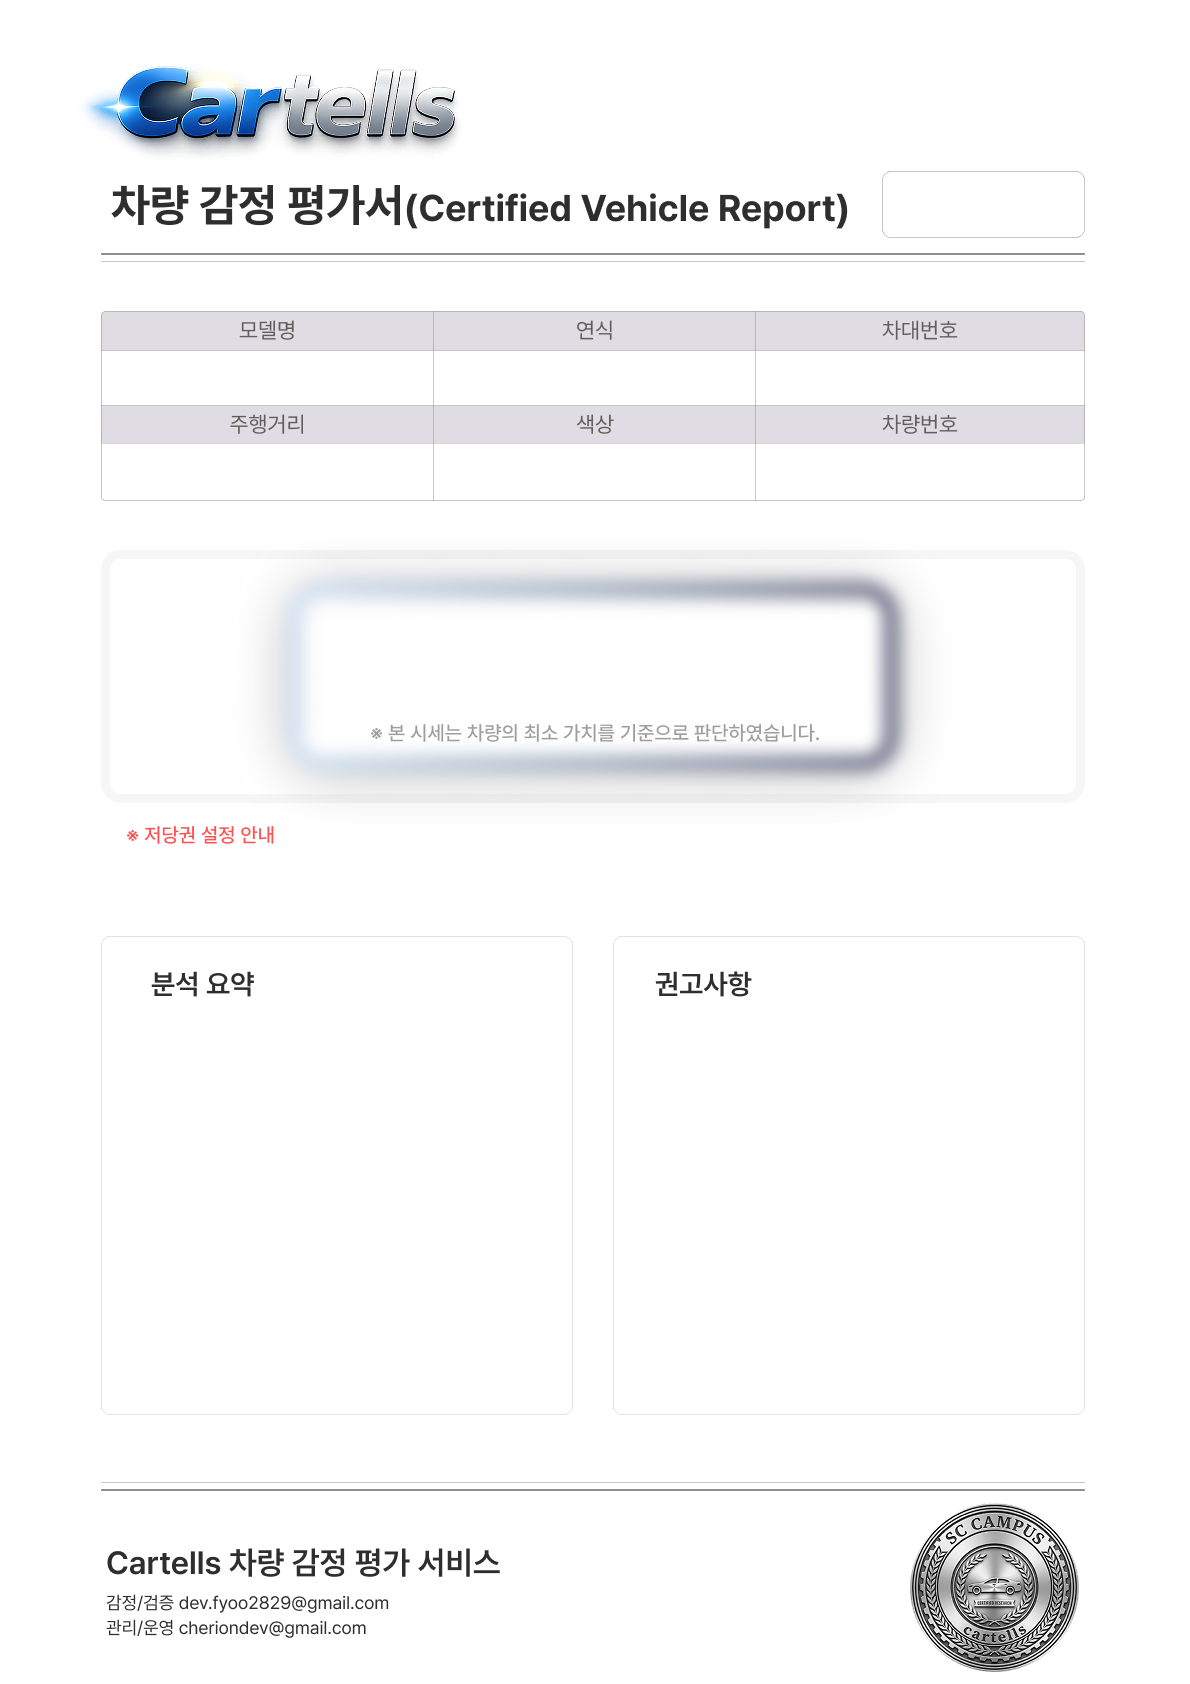
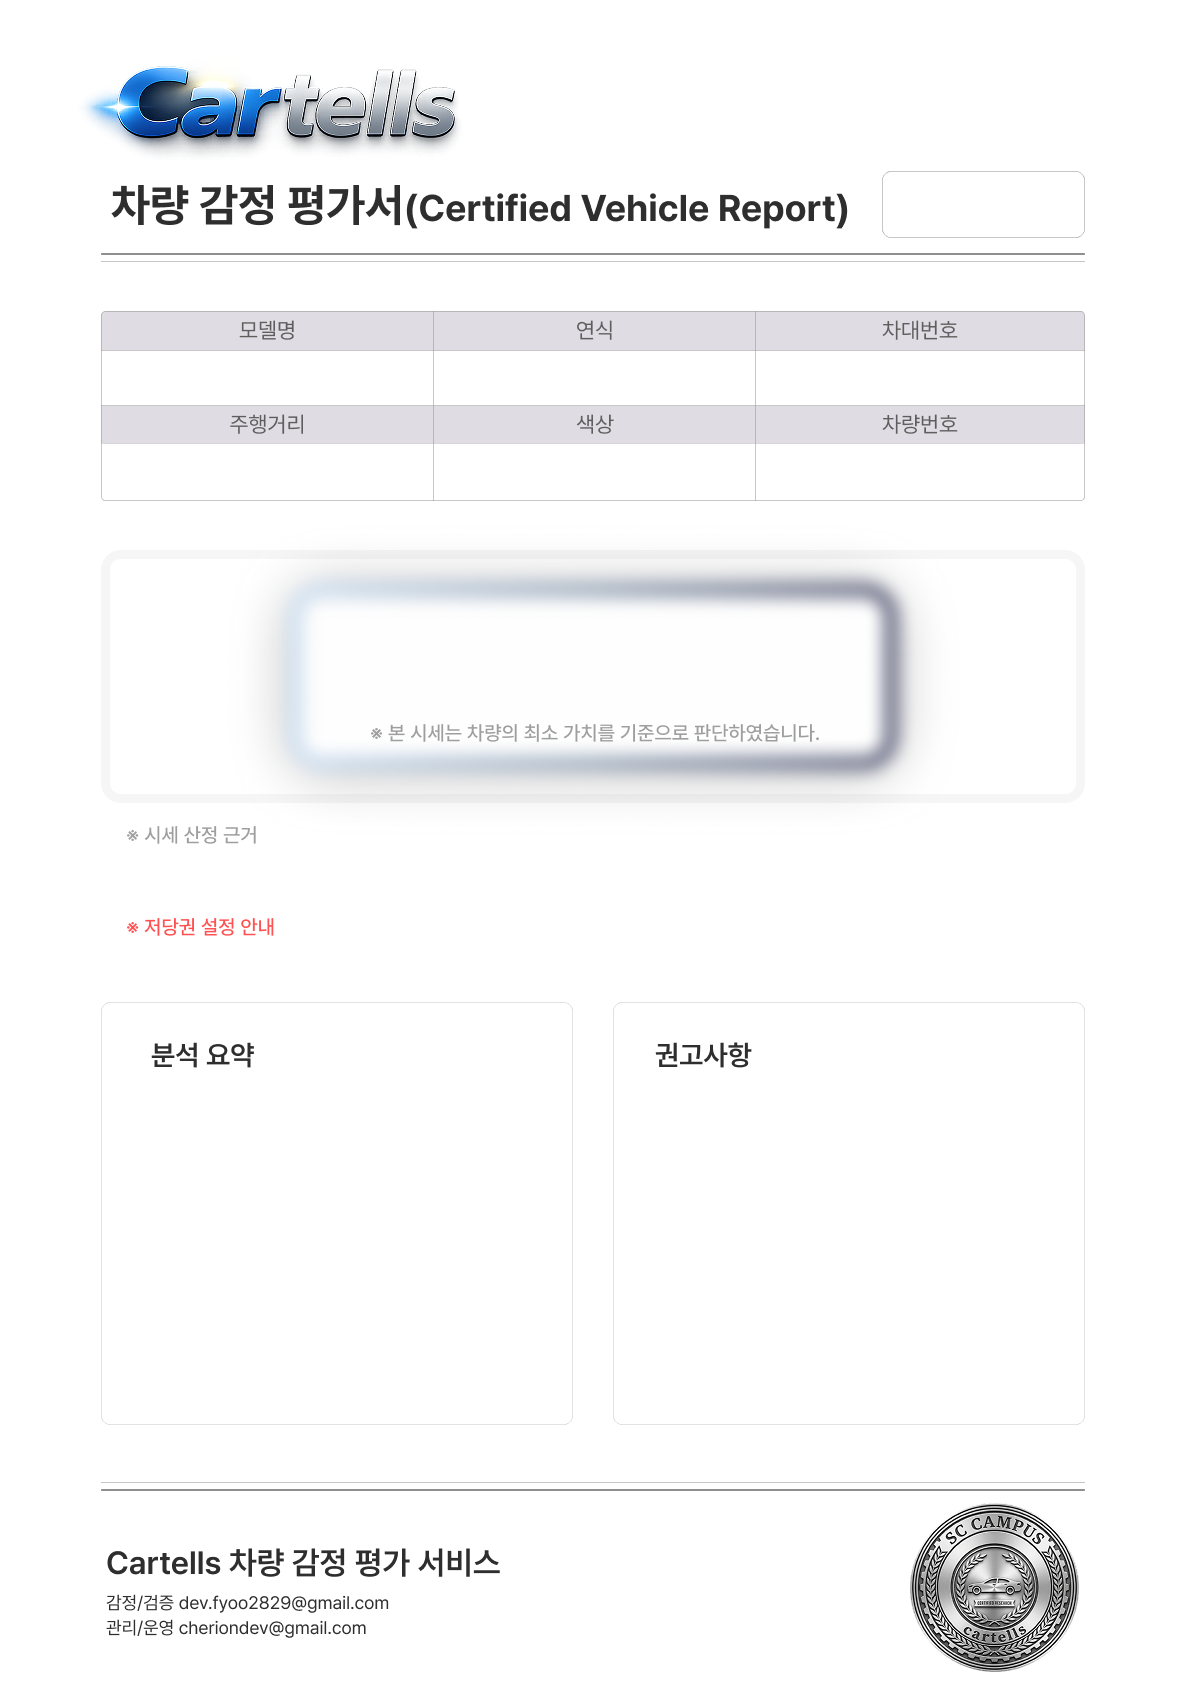
Design: 리포트 배경 템플릿 이미지 교체

diff --git a/text_server.py b/text_server.py
@@ -5,7 +5,7 @@ import os
 
 app = Flask(__name__)
 
-# [수정] 파일 위치 자동 파악 (맥북/Render 공용)
+# [수정] 파일 위치 자동 파악 (맥북/Render 공용 환경 대응)
 BASE_DIR = os.path.dirname(os.path.abspath(__file__))
 
 def wrap_text_with_indent(text, font, max_width, indent=15):
@@ -61,86 +61,83 @@ def add_text():
         data = request.json
         report_data = data['report_data']
 
-        # [수정] 템플릿 경로를 상대 경로로 변경
+        # [수정] 서버 배포를 위해 배경 이미지 경로를 상대 경로로 변경
         template_path = os.path.join(BASE_DIR, 'report_base_F.png')
         img = Image.open(template_path)
         draw = ImageDraw.Draw(img)
 
-        # [수정] 폰트 로직: 우리가 올린 font.ttc를 최우선으로 사용
-        def load_smart_font(font_size, is_bold=False):
-            # 1. GitHub에 같이 올린 font.ttc 경로
+        # 폰트 로드
+        def load_smart_font(font_size, index=0):
             custom_font_path = os.path.join(BASE_DIR, 'font.ttc')
-            
-            # 2. 파일이 있으면 그걸 쓰고, 없으면 시스템 폰트나 기본 폰트 사용
             if os.path.exists(custom_font_path):
-                return ImageFont.truetype(custom_font_path, font_size)
-            else:
-                # 파일이 없을 때를 대비한 백업 로직
-                font_paths = [
-                    "/usr/share/fonts/truetype/dejavu/DejaVuSans-Bold.ttf" if is_bold else "/usr/share/fonts/truetype/dejavu/DejaVuSans.ttf",
-                    "/System/Library/Fonts/AppleSDGothicNeo.ttc"
-                ]
-                for path in font_paths:
-                    if os.path.exists(path):
-                        return ImageFont.truetype(path, font_size)
-                return ImageFont.load_default()
+                return ImageFont.truetype(custom_font_path, font_size, index=index)
+            return ImageFont.load_default()
 
-        font_price = ImageFont.truetype(os.path.join(BASE_DIR, 'font.ttc'), 55, index=2)
-        font_notice_body = load_smart_font(20)
+        # 폰트 설정
+        font_price = load_smart_font(55, index=2)
+        font_notice_body = load_smart_font(20) 
         font_content = load_smart_font(int(22 * 0.9))
         font_medium = load_smart_font(24)
         font_small = load_smart_font(20)
         font_tiny = load_smart_font(18)
-        font_micro = load_smart_font(int(16 * 0.9))
+        font_page = load_smart_font(16)
 
         black, gray = (0, 0, 0), (80, 80, 80)
 
-        # 문서번호
+        # 1. 문서번호 및 차량 기본 정보
         draw.text((895, 180), "문서번호", fill=gray, font=font_tiny)
         draw.text((900, 203), report_data['vin'][:10], fill=black, font=font_medium)
-
-        # 표 1행/2행
         draw.text((140, 365), report_data['car_basic']['model_name'], fill=black, font=font_small)
         draw.text((475, 365), report_data['car_basic']['model_year'], fill=black, font=font_small)
         draw.text((790, 365), report_data['vin'], fill=black, font=font_small)
-        draw.text((140, 457), report_data['history']['mileage_doc'], fill=black, font=font_small)
-        draw.text((475, 457), report_data['car_basic']['color'], fill=black, font=font_small)
-        draw.text((790, 457), report_data['car_basic']['car_number'], fill=black, font=font_small)
+        draw.text((140, 458), report_data['history']['mileage_doc'], fill=black, font=font_small)
+        draw.text((475, 458), report_data['car_basic']['color'], fill=black, font=font_small)
+        draw.text((790, 458), report_data['car_basic']['car_number'], fill=black, font=font_small)
 
-        # 감정가
+        # 2. 감정가
         draw.text((585, 670), report_data['valuation']['final_price'], fill=black, font=font_price, anchor="mm")
 
-        # 저당권 안내
+        # 3. 시세 산정 근거
+        valuation_note = report_data['valuation'].get('valuation_note', '')
+        y_val = 855
+        if valuation_note:
+            val_lines = wrap_text_with_indent(valuation_note, font_notice_body, 920)
+            for line in val_lines:
+                draw.text((125, y_val), line, fill=gray, font=font_notice_body)
+                y_val += 25 # 줄 간격
+
+        # 4. [좌표 수정] 저당권 설정 안내
         mortgage_info = report_data.get('mortgage_info', {})
         if mortgage_info.get('has_mortgage', False):
-            notice_text = f"이 차량에는 {mortgage_info.get('mortgage_amount', '0원')}의 저당권이 설정되어 있습니다."
-            draw.text((125, 862), notice_text, fill=black, font=font_notice_body)
+            m_amount = mortgage_info.get('mortgage_amount', '0원')
+            notice_text = f"이 차량에는 {m_amount}의 저당권이 설정되어 있습니다."
         else:
             notice_text = "리포트 발급일 기준 저당권 설정이 없으나, 매매 시점에 반드시 재확인하시기 바랍니다."
-            draw.text((125, 862), notice_text, fill=black, font=font_notice_body)
+        
+        draw.text((125, 942), notice_text, fill=gray, font=font_notice_body)
 
-        # 분석 요약 & 권고 사항 (기존 좌표 적용)
-        y_summary = 1025
-        for line in wrap_text_with_indent(report_data.get('analysis_summary', ''), font_content, 420):
-            x = 145 if isinstance(line, tuple) else 130
+        # 5. 분석 요약 및 권고사항
+        box_width = 400
+        start_y = 1095 
+        
+        y_summary = start_y
+        for line in wrap_text_with_indent(report_data.get('analysis_summary', ''), font_content, box_width):
+            x = 155 if isinstance(line, tuple) else 140
             draw.text((x, y_summary), line[1] if isinstance(line, tuple) else line, fill=black, font=font_content)
             y_summary += 28
 
-        y_recommend = 1025
-        for line in wrap_text_with_indent(report_data.get('recommendations', ''), font_content, 420):
-            x = 653 if isinstance(line, tuple) else 638
+        y_recommend = start_y
+        for line in wrap_text_with_indent(report_data.get('recommendations', ''), font_content, box_width):
+            x = 663 if isinstance(line, tuple) else 648
             draw.text((x, y_recommend), line[1] if isinstance(line, tuple) else line, fill=black, font=font_content)
             y_recommend += 28
 
-        # 시세 산정 근거
-        val_note = report_data['valuation'].get('valuation_note', '')
-        if val_note:
-            draw.text((110, 1420), "※ 시세 산정 근거", fill=gray, font=font_small)
-            draw.text((110, 1445), val_note[:100] + "...", fill=gray, font=font_micro)
-
-        # 날짜
+        # 6. 날짜 및 페이지 번호
         current_date = datetime.now().strftime("%Y년 %m월 %d일")
         draw.text((106, 1510), current_date, fill=black, font=font_medium)
+        
+        # [좌표 수정] 페이지 번호 (기존 1480 -> 1460으로 -20 상향 조정)
+        draw.text((img.width // 2, 1460), "1/1", fill=gray, font=font_page, anchor="mm")
 
         output_path = '/tmp/final_report.png'
         img.save(output_path)
@@ -150,4 +147,6 @@ def add_text():
         return jsonify({'error': str(e)}), 500
 
 if __name__ == '__main__':
-    app.run(port=5000, debug=True)
+    # 서버 환경(Render)에서는 환경변수 PORT를 사용하므로 아래와 같이 설정하는 것이 권장됩니다.
+    port = int(os.environ.get("PORT", 5000))
+    app.run(host='0.0.0.0', port=port)
